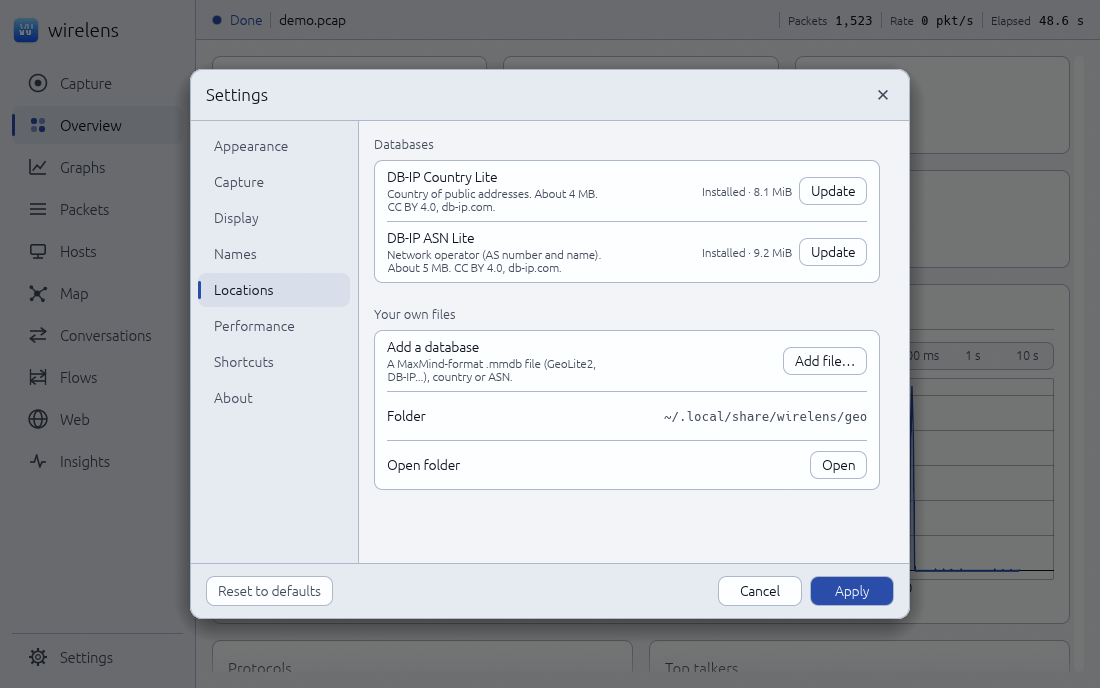
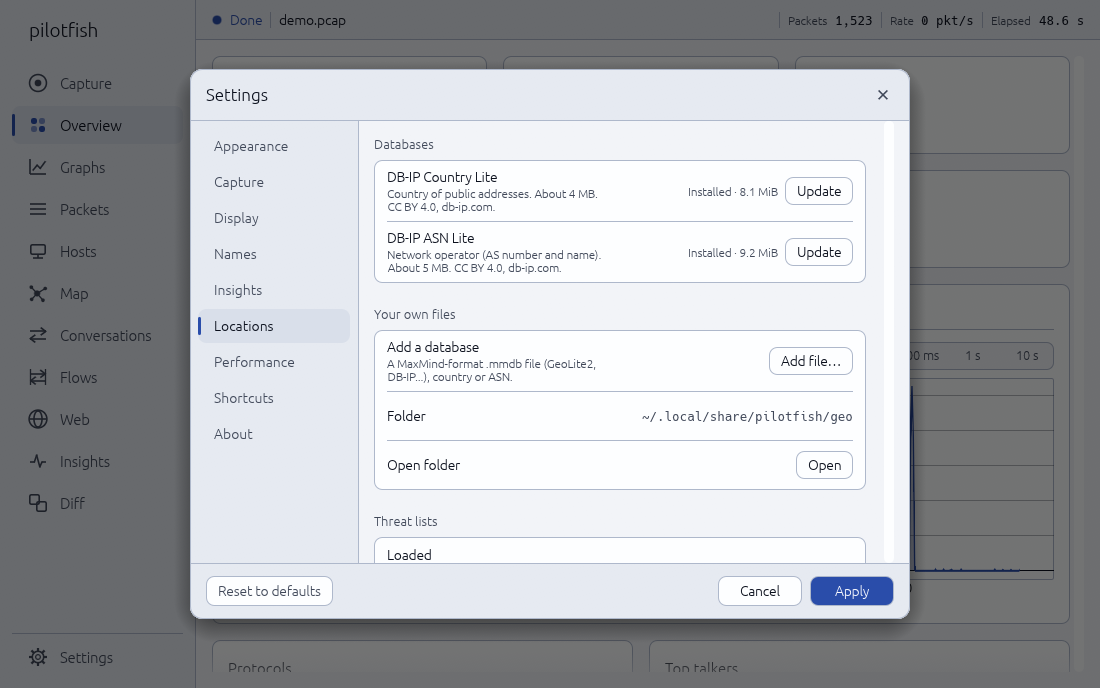
docs: retake the screenshots and add Diff, Streams and credentials

diff --git a/README.md b/README.md
@@ -27,6 +27,11 @@ calling a documentation address at a steady rhythm, and very long DNS names). No
 real network. `tests/fixtures/gen_demo_capture.py` writes it, so you can open the same file and compare:
 `pilotfish tests/fixtures/demo.pcap`.
 
+The last row comes from other invented captures: Diff compares two cuts of the same demo capture (one without
+the scan and `mail.proton.me`, the other without `github.com` and the TV), Streams opens
+`tests/fixtures/web-streams.pcap` and Credentials `tests/fixtures/credentials.pcap`, whose logins and passwords
+are made up and shown masked.
+
 | Overview | Packets | Hosts |
 | :---: | :---: | :---: |
 | <img src="assets/screenshots/overview-dark.png" alt="Overview, dark theme"> | <img src="assets/screenshots/packets-dark.png" alt="Packets, dark theme"> | <img src="assets/screenshots/hosts-dark.png" alt="Hosts, dark theme"> |
@@ -38,6 +43,10 @@ real network. `tests/fixtures/gen_demo_capture.py` writes it, so you can open th
 | Flows | Graphs | Settings |
 | :---: | :---: | :---: |
 | <img src="assets/screenshots/flows-dark.png" alt="Flows, dark theme"> | <img src="assets/screenshots/graphs-dark.png" alt="Graphs, dark theme"> | <img src="assets/screenshots/settings-dark.png" alt="Settings, dark theme"> |
+
+| Diff | Streams | Credentials |
+| :---: | :---: | :---: |
+| <img src="assets/screenshots/diff-dark.png" alt="Diff, dark theme"> | <img src="assets/screenshots/streams-dark.png" alt="Streams, dark theme"> | <img src="assets/screenshots/credentials-dark.png" alt="Credentials in Insights, dark theme"> |
 
 <details>
 <summary>Light theme</summary>
@@ -53,6 +62,10 @@ real network. `tests/fixtures/gen_demo_capture.py` writes it, so you can open th
 | Flows | Graphs | Settings |
 | :---: | :---: | :---: |
 | <img src="assets/screenshots/flows-light.png" alt="Flows, light theme"> | <img src="assets/screenshots/graphs-light.png" alt="Graphs, light theme"> | <img src="assets/screenshots/settings-light.png" alt="Settings, light theme"> |
+
+| Diff | Streams | Credentials |
+| :---: | :---: | :---: |
+| <img src="assets/screenshots/diff-light.png" alt="Diff, light theme"> | <img src="assets/screenshots/streams-light.png" alt="Streams, light theme"> | <img src="assets/screenshots/credentials-light.png" alt="Credentials in Insights, light theme"> |
 
 </details>
 

diff --git a/CHANGELOG.md b/CHANGELOG.md
@@ -5,6 +5,10 @@ and the project follows [Semantic Versioning](https://semver.org/).
 
 ## [Unreleased]
 
+### Changed
+- **The README screenshots show pilotfish 0.5.0**, in both themes, with three new views: the Capture Diff page, the
+  Streams tab and the masked credentials of Insights. They are taken on invented captures only.
+
 ## [0.5.0] - 2026-11-22
 
 ### Added
